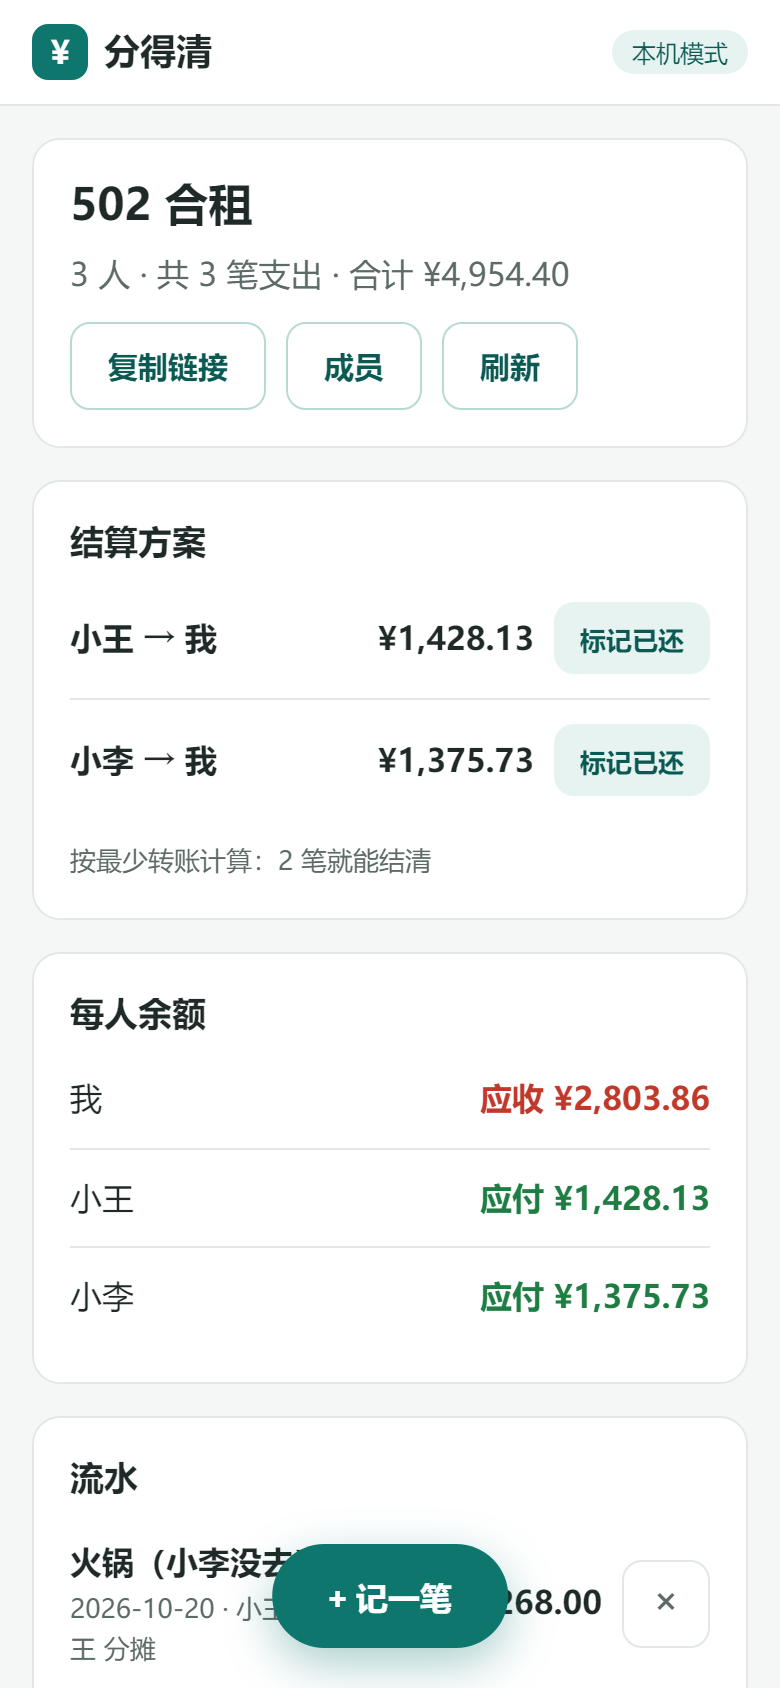
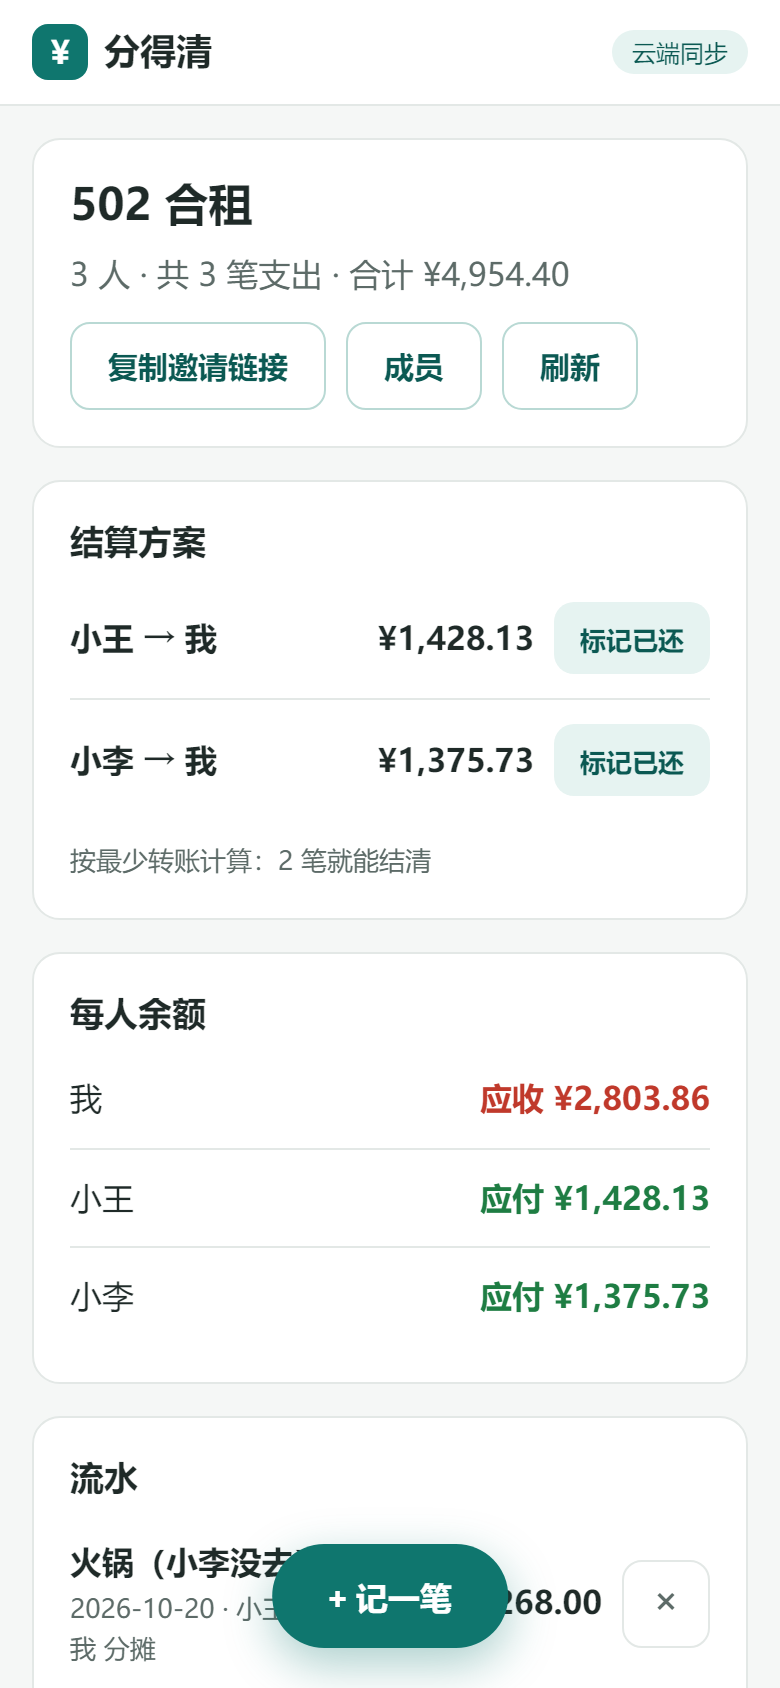
文档与线上截图：#10 编辑记录、成员管理

diff --git a/毕业项目提交.md b/毕业项目提交.md
@@ -46,7 +46,7 @@
 | P1 | 最近打开的账本列表 | ✅ |
 | P1 | 云端多人同步（Supabase，东京区域） | ✅ |
 | P1 | 按比例或按金额分摊（例如房租按房间大小、聚餐有人只喝饮料） | ✅ |
-| P1 | 编辑记录、成员增删 | 后续迭代 |
+| P1 | 编辑支出（还款只能删除）；添加、改名成员；余额结清后可退出账本，历史保留、可恢复 | ✅ |
 | P2 | 导出 Excel、分类统计图表 | 后续迭代 |
 | P2 | 周期性账单（每月房租自动记） | 后续迭代 |
 | P2 | 拍小票识别金额、多币种 | 后续迭代 |
@@ -62,6 +62,8 @@
 4. `4-settled.png`：全部标记已还后，显示"账已经平了"
 5. `5-split.png`：按金额分摊，实时提示各人合计是否等于总额
 6. `6-split-ledger.png`：按比例 + 按金额后的余额与流水明细
+7. `7-members.png`：成员管理，改名、退出（需先结清）、恢复和添加
+8. `8-edit.png`：编辑支出，回填原记录并实时校验分摊
 
 ## 6. 安全检查结果
 
@@ -75,6 +77,7 @@
 | 低 | 可以写入零宽字符或 RTL 覆盖符来伪装名字 | 已修复：服务端拒绝这类字符 |
 | 中 | 限流读取 X-Forwarded-For 第一段，客户端自带该头即可伪造 IP 绕过（第 1 轮迭代发现） | 已修复：线上实测请求头后改为信任 cf-connecting-ip，兜底取 XFF 最后一段；伪造请求实测被忽略 |
 | 低 | 两台设备同时"标记已还"会重复记还款（第 1 轮迭代发现） | 已修复：写入前重新拉取并核对结算方案 |
+| 低 | 成员退出后仍可被记入新支出；编辑接口可能被用来改还款或跨账本记录（第 3 轮设计时排查） | 已处理：服务端拒绝退出成员参与新支出（编辑时保留原记录里的人），还款不可编辑，所有成员接口按账本校验归属 |
 | 低 | "每个账本最多 2000 条"存在并发竞态 | 已修复：写入前对账本行加锁 |
 | 低 | 新函数默认可被所有人执行；search_path 不够严格 | 已修复：整段脚本放在一个事务里执行，撤销默认权限，`search_path = ''` |
 | 低 | 数据库明文存储访问口令 | 已修复：只存 sha256 哈希 |
@@ -89,9 +92,9 @@
 
 **自动化验证**
 
-- 结算算法单元测试 18 项，含分摊算法 500 组随机数据的总和守恒检查
-- 数据库测试 11 项，在内存 Postgres（PGlite）里跑真实的 schema.sql 和迁移脚本，并验证从旧版数据库升级后数据和函数定义一致
-- 线上端到端测试 30 项，覆盖核心流程、按比例/按金额分摊、数据保存、跨设备同步、并发标记已还、异常提示、手机端横向溢出和 XSS
+- 结算算法单元测试 22 项，含分摊算法 500 组随机数据的总和守恒检查
+- 数据库测试 18 项，在内存 Postgres（PGlite）里跑真实的 schema.sql 和迁移脚本，并验证从旧版数据库升级后数据、全部函数定义与权限一致
+- 线上端到端测试 48 项，覆盖核心流程、按比例/按金额分摊、编辑支出、成员管理、数据保存、跨设备同步、并发标记已还、异常提示、手机端横向溢出和 XSS
 - 线上数据库用匿名密钥实测：直接读表、调用内部函数均被拒绝（42501），超大数组请求被拦截
 
 全部通过。
